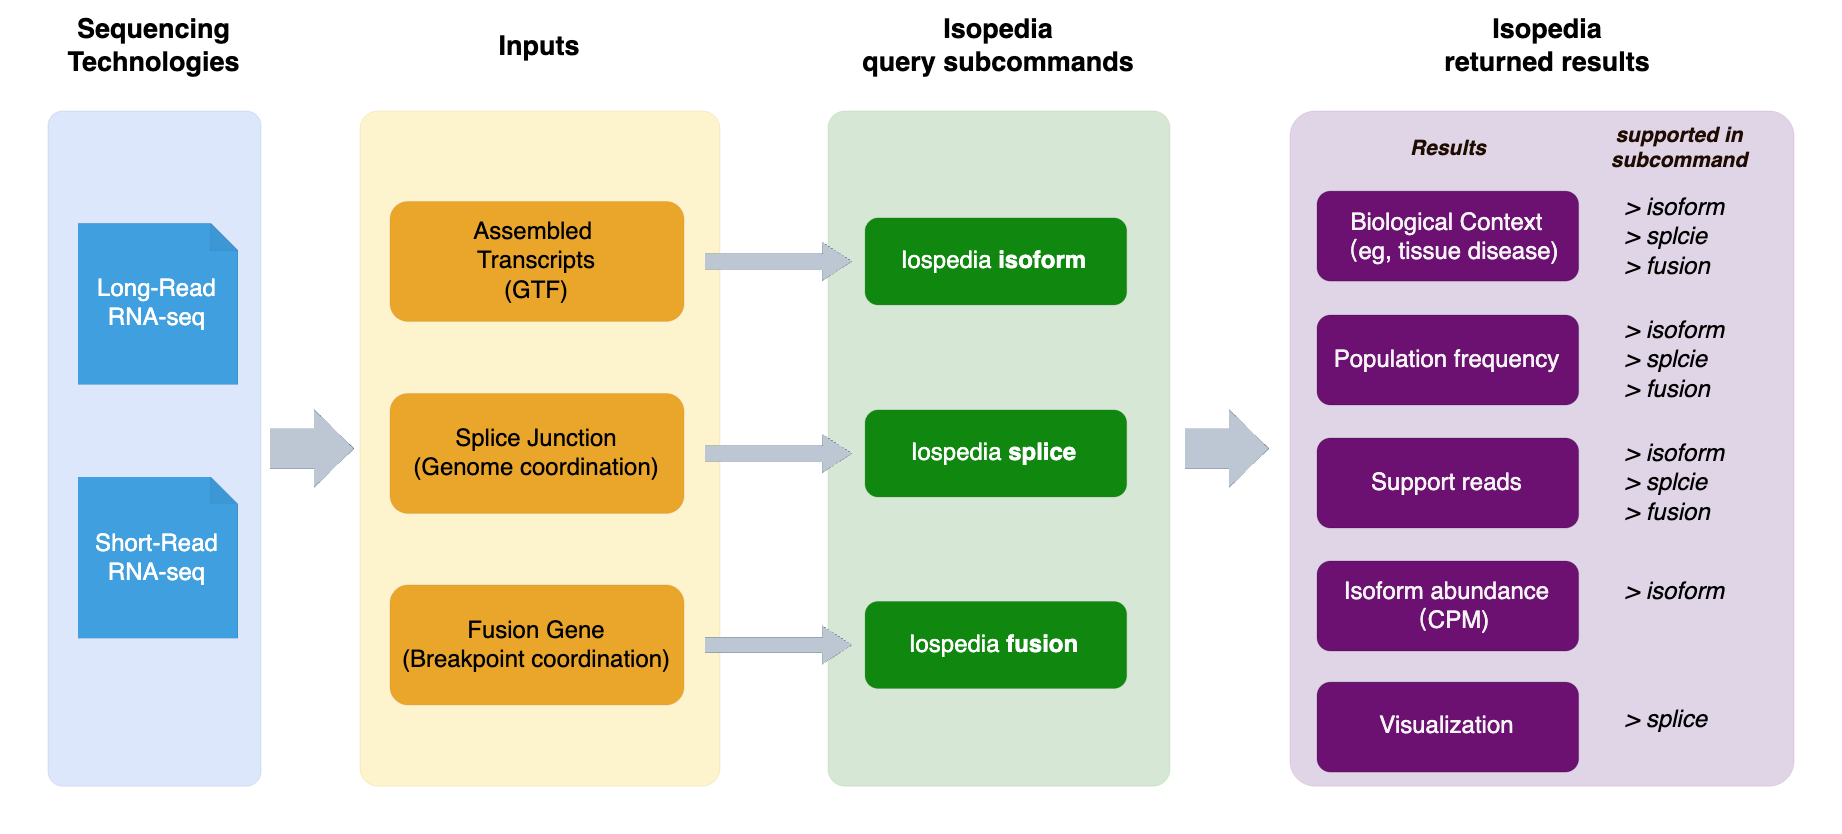
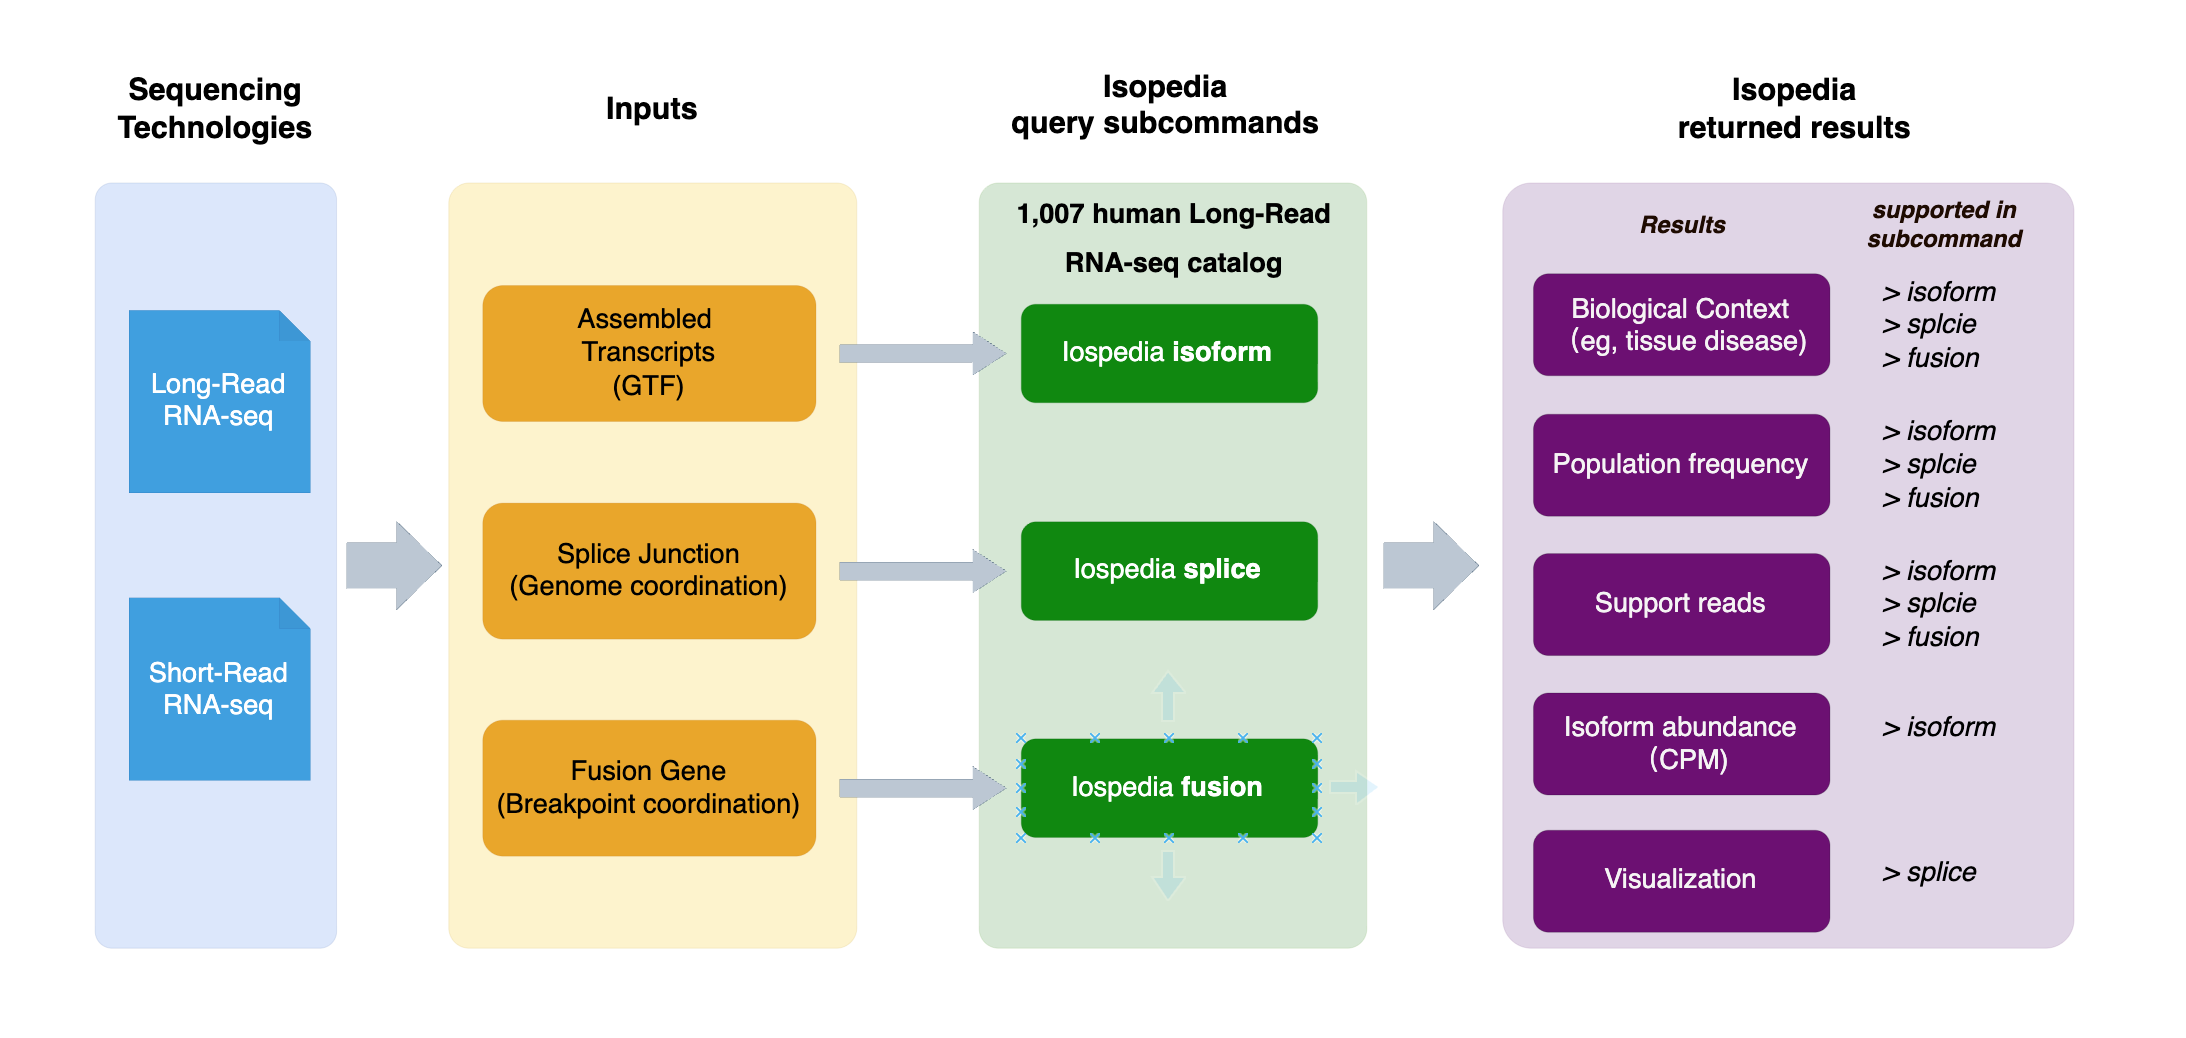
update

Changed region(s): [[0.0, 0.0, 0.9902, 0.9664]]

diff --git a/README.md b/README.md
@@ -56,6 +56,8 @@ isopedia fusion -i index/ -P fusion_query.tsv -o ./out.fusion.tsv.gz # 0 recored
 ```
 
 
+Overview of Isopedia's query framework and supported output types. All query modes run on a standard laptop.
+
 ![What you can get from isopedia](./img/workflow.png)
 
 
